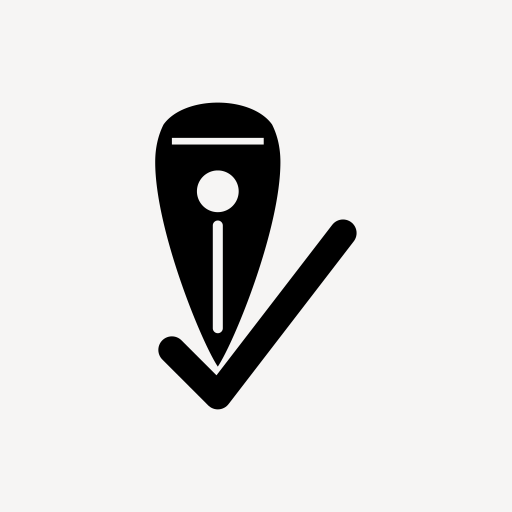
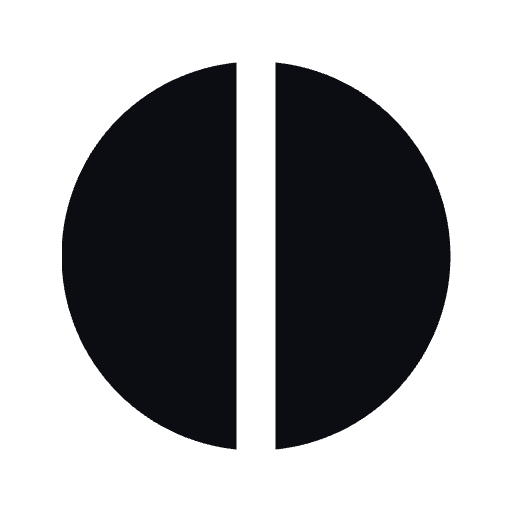
feat(site): replace the pen-nib mark with the split-circle gate

diff --git a/apps/site/src/components/ui/AppShell.tsx b/apps/site/src/components/ui/AppShell.tsx
@@ -95,7 +95,7 @@ export default function AppShell({ active, session, liveStatus, children }: AppS
       <header className="sticky top-0 z-40 border-b border-hairline bg-canvas">
         <div className="mx-auto flex h-16 max-w-[1200px] items-center gap-8 px-6 md:px-8">
           <a href="/" className="flex shrink-0 items-center" aria-label={`${SITE.name} home`}>
-            <img src="/brand/logo.svg" alt={SITE.name} width="116" height="24" className="h-6 w-auto" />
+            <img src="/brand/logo.svg" alt={SITE.name} width="188" height="24" className="h-6 w-auto" />
           </a>
           {signedIn && (
             <nav aria-label="App" className="hidden h-full md:flex">

diff --git a/apps/site/BRAND.md b/apps/site/BRAND.md
@@ -4,58 +4,71 @@ Not served by the site — internal reference for anyone touching `public/brand/
 
 ## What it means
 
-A fountain-pen nib with a checkmark emerging from its tip: **signed, then verified.** The nib
-stands for the user's EIP-712 intent signature; the checkmark stands for the firewall's
-verification of an agent's payment against that signature before it releases funds. No Japanese
-motifs (see `PRODUCT.md` → Brand Commitments, `DESIGN.md` header) — the mark is a plain,
-geometric pen-nib pictogram.
+A solid circle split by one centered vertical slot: a gate that only lets the right payment
+through. It is also the "o" of omamorisan. No pen, no checkmark, no Japanese motifs (see
+`PRODUCT.md` → Brand Commitments, `DESIGN.md` header) — just the gate.
 
 ## Files (`apps/site/public/brand/`)
 
 | File | Use |
 |---|---|
-| `mark.svg` | Nib + check, ink black only. Standalone icon use (e.g. loading states, avatars). |
-| `mark-blue.svg` | Same nib, checkmark in `#0075de`. Use where a single accent color reads better than all-black. |
-| `favicon.svg` | Simplified mark (no slit, no shoulder groove) for legibility at 16–32 px. Ink on transparent. |
-| `favicon-32.png`, `icon-512.png` | Raster fallbacks of the favicon/mark for browsers and PWA manifests that need a PNG. |
-| `apple-touch-icon.png` | 180×180, mark padded ~20% on the canvas color (`#f6f5f4`), per Apple's icon convention. |
-| `logo.svg` | Horizontal lockup — mark left, "omamorisan" wordmark right. Used in `Nav.astro`. |
+| `mark.svg` | The gate, ink black only. Standalone icon use (e.g. loading states, avatars). |
+| `favicon.svg` | Same mark with a wider slot for legibility at 16–32 px. Ink on transparent. |
+| `favicon-32.png`, `icon-512.png` | Raster fallbacks of the favicon/mark for browsers and PWA manifests that need a PNG. Transparent background. |
+| `apple-touch-icon.png` | 180×180, mark padded ~20% on white (`#ffffff`), per Apple's icon convention. |
+| `logo.svg` | Horizontal lockup — mark left, "omamorisan" wordmark right. Used in `Nav.astro` and `AppShell.tsx`. |
 | `logo-stacked.svg` | Mark above the wordmark, centered. Use for square/vertical placements (README, share cards). |
-| `og.png` | 1200×630 Open Graph / Twitter card image: canvas background, stacked logo, tagline. |
+| `og.png` | 1200×630 Open Graph / Twitter card image: white canvas, hairline frame, lockup + tagline. |
 
 ## Geometry
 
-The mark is authored directly as hand-placed SVG paths in a 100×100 viewBox — it is **not** a
-traced raster. It has three layers:
+The mark is a circle, `viewBox="0 0 100 100"`, centered at `(50,50)` with `r=50`, split by two
+arc paths that leave a centered vertical slot between them:
 
-1. **Nib silhouette** — a single `fill-rule="evenodd"` path: the outer nib outline, a circular
-   breather hole, a thin vertical slit, and a shoulder groove line, all as literal cut-out
-   counters (so the mark stays correct on any background, not just the canvas color).
-2. **Checkmark** — a separate stroked path (`stroke-linecap`/`linejoin: round`), vertex touching
-   the nib's tip, short leg down-left / long leg up-right.
-3. The wordmark in `logo.svg` / `logo-stacked.svg` is **Inter SemiBold (600) converted to outlined
-   paths** (extracted from the project's `@fontsource-variable/inter` package with `fontTools`,
-   instanced at weight 600, then each glyph's outline exported as an SVG path and hand-tracked at
-   18 font units). The SVG needs no font at render time.
+```
+<path d="M45 .251A50 50 0 0 0 45 99.749Z"/>
+<path d="M55 .251A50 50 0 0 1 55 99.749Z"/>
+```
+
+The slot is 10% of the diameter (10 units wide, `x` 45→55 in the 100-unit viewBox), centered on
+the circle. Each path is a 50-radius arc from one chord endpoint to the other (large-arc-flag 0,
+opposite sweep flags for the left/right halves), closed with a straight line along the chord —
+that straight edge is what creates the slot.
+
+`favicon.svg` widens the slot to 12% of the diameter (`x` 44→56) so it stays legible at 16–32 px.
+The arc endpoints are recomputed for the new chord distance from center (`d=6` instead of `5`):
+`y = 50 ± sqrt(2500 − 36)` ≈ `0.361` / `99.639`. Same two-path structure, same fill, no groove or
+extra ornament — it stays a clean two-path SVG at every size.
+
+The wordmark in `logo.svg` / `logo-stacked.svg` is **Mona Sans weight 600, outlined to paths**
+(extracted from the project's `@fontsource-variable/mona-sans` package with `fontTools`: the
+variable font instanced at `wght=600`/`wdth=100`, each glyph's outline exported with
+`fontTools.pens.svgPathPen.SVGPathPen`, and the ten glyphs of "omamorisan" assembled using the
+font's own advance widths with `-0.02em` letter-spacing applied between characters — no kerning
+pairs apply to this word at this weight). The SVG needs no font at render time. Mark height is
+cap height × 1.25, vertically centered on the cap-height band; the gap between mark and wordmark
+is ≈ 0.3 × the mark's height. The same mark-height and gap rule is reused for the stacked lockup,
+with the mark horizontally centered over the wordmark instead.
 
 ## Clear space & minimum size
 
-- Keep clear space around the mark equal to at least the width of the nib's shoulder (roughly
-  30% of the mark's own height) on every side.
-- Don't render `mark.svg` (the detailed version, with slit/hole/groove) below ~40 px — use
-  `favicon.svg` instead, which is deliberately simplified for small sizes.
+- Keep clear space around the mark equal to at least the slot width × 2 (i.e. ≥20% of the mark's
+  diameter) on every side — enough that the slot itself always reads as intentional negative
+  space, not crowding.
+- Don't render `mark.svg` below ~40 px — use `favicon.svg` instead, which is deliberately widened
+  for small sizes.
 - Don't stretch non-uniformly; always scale `width`/`height` (or just `height`) together.
 
 ## Colors
 
-- Ink `#000000` — default color for the nib and, in `mark.svg`, the checkmark too.
-- Primary blue `#0075de` — the only accent, used solely for the checkmark in `mark-blue.svg`. Never
-  recolor the nib itself.
-- Canvas `#f6f5f4` — background for padded square icons (`apple-touch-icon.png`, `icon-512.png`,
-  `og.png`). No gradients, no drop shadows, anywhere.
+- Ink `#0b0d12` — the only color the mark or wordmark ever uses.
+- Never recolor the mark into a state color (verified/refuse/ask, etc.) or brand blue — it stays
+  ink-only in every context.
+- Canvas `#ffffff` — background for `og.png` and `apple-touch-icon.png`. No gradients, no drop
+  shadows, anywhere.
 
 ## Provenance
 
-Vector redrawn by hand (hand-placed path coordinates, no auto-trace) from Codex `image_gen`
-concept 07 ("pen + check"). The reference raster (`assets/logo-concepts/concept-07-pen-check.png`,
-outside this repo) was used only as a compositional reference and is not shipped.
+Concept generated with Codex `image_gen` as `assets/logo-v2/01-slot.png` (outside this repo); the
+shipped vector geometry was authored by hand from measurements on that concept, not auto-traced.
+The wordmark is Mona Sans 600, outlined to paths with `fontTools` as described above.
